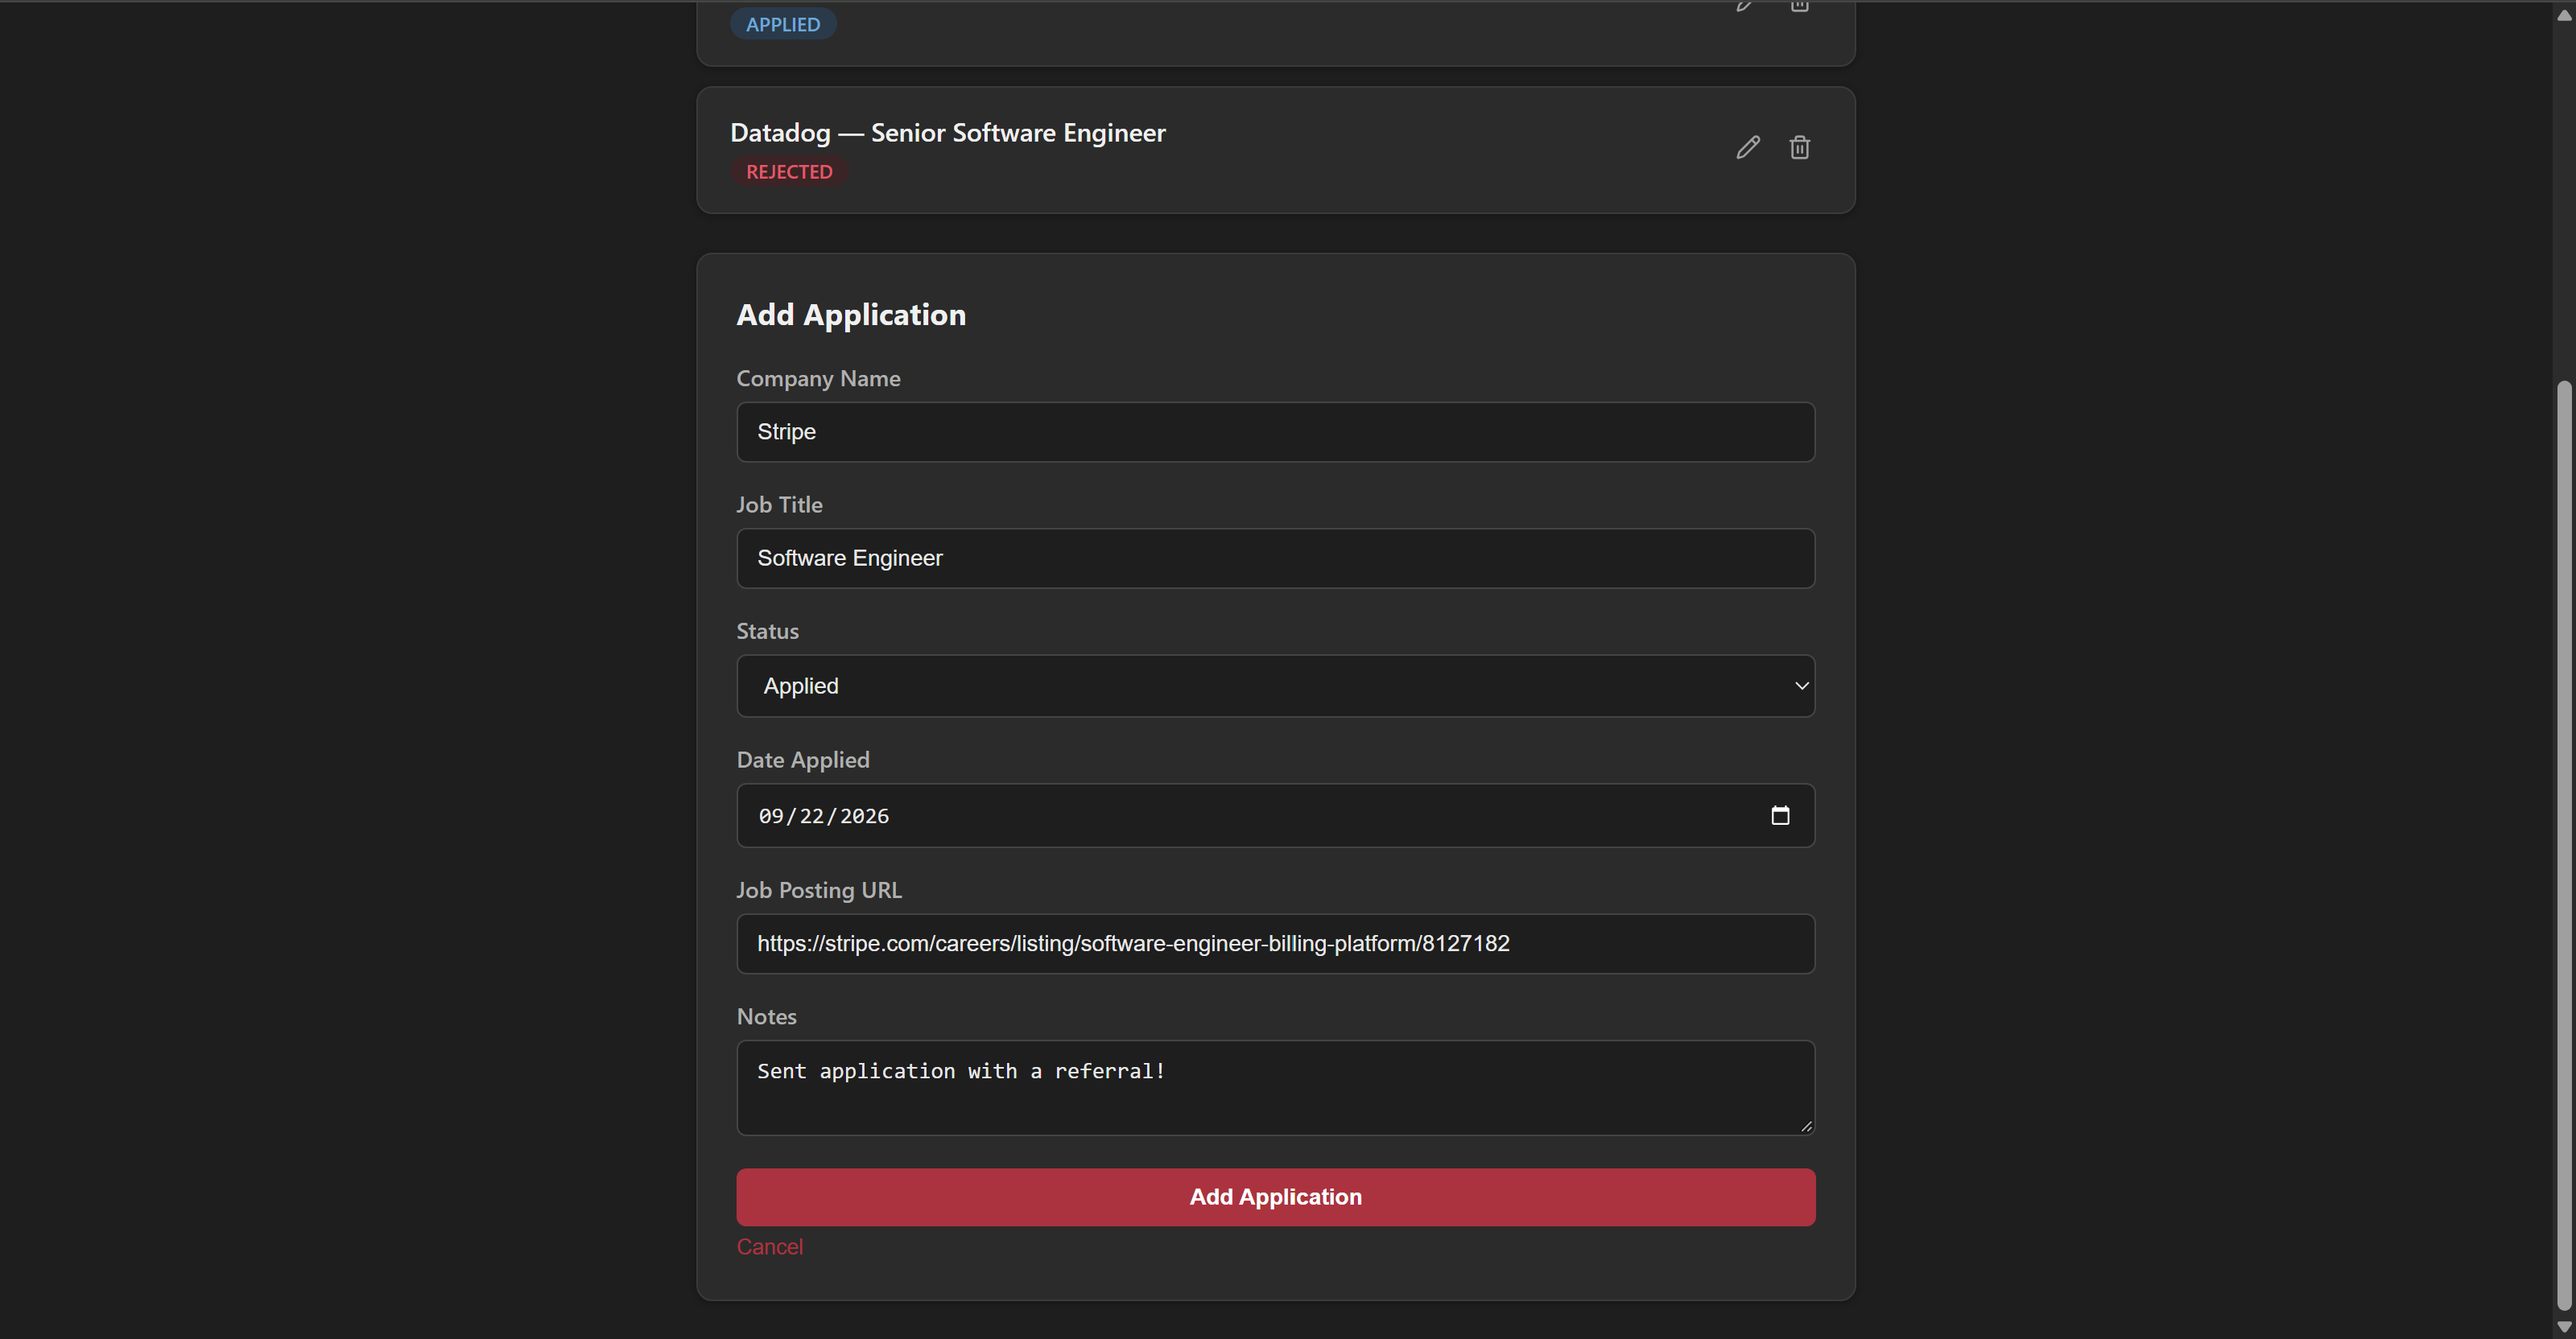
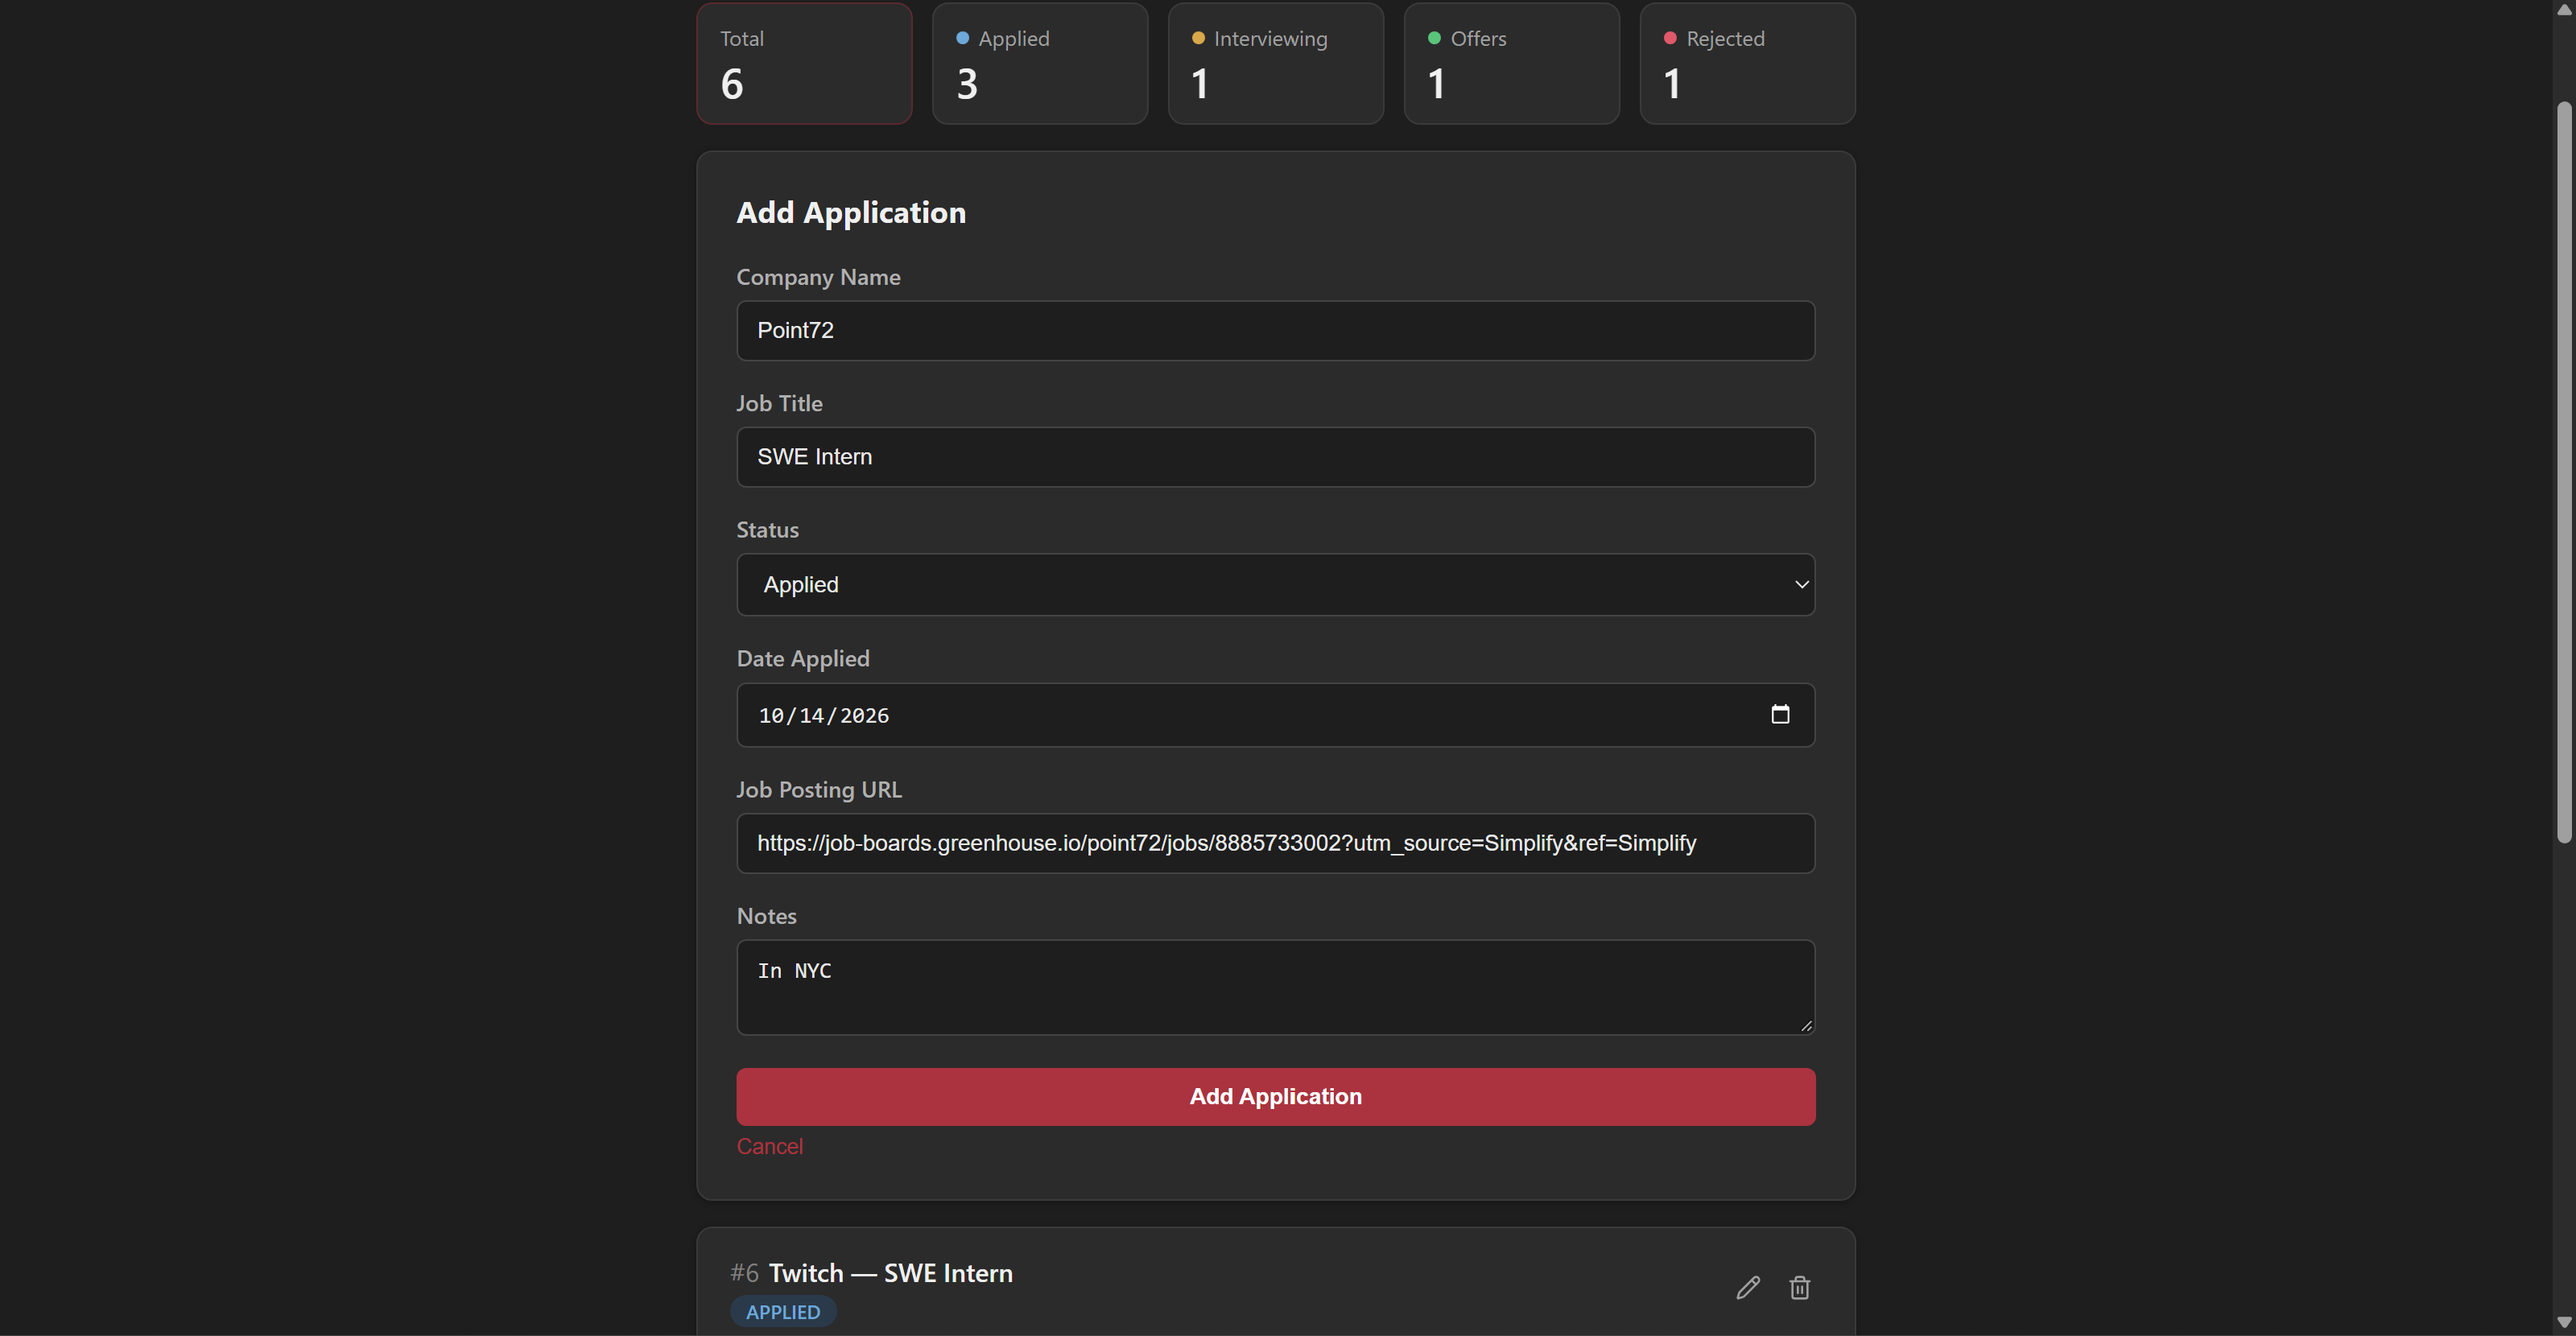
Update README screenshots and features for v2

diff --git a/README.md b/README.md
@@ -9,8 +9,13 @@ A full-stack job application tracker — register, log in, and manage your job s
 ## Screenshots
 
 <p align="center">
-  <img src="docs/screenshots/dashboard.png" alt="HirePoint dashboard" width="800"><br>
-  <em>Dashboard — track every application's status at a glance</em>
+  <img src="docs/screenshots/landing.png" alt="HirePoint landing page" width="800"><br>
+  <em>Landing page — what HirePoint does, with a preview of the dashboard</em>
+</p>
+
+<p align="center">
+  <img src="docs/screenshots/dashboard.png" alt="HirePoint dashboard with stats" width="800"><br>
+  <em>Dashboard — stats at a glance, with every application numbered newest first</em>
 </p>
 
 <p align="center">
@@ -21,7 +26,7 @@ A full-stack job application tracker — register, log in, and manage your job s
 
 <p align="center">
   <img src="docs/screenshots/add-application.png" alt="Add application form" width="800"><br>
-  <em>Adding a new application</em>
+  <em>Adding a new application — today's date is filled in automatically</em>
 </p>
 
 ---
@@ -33,6 +38,8 @@ A full-stack job application tracker — register, log in, and manage your job s
 - **Application tracking** — company name, job title, status (Applied / Interviewing / Offer / Rejected), date applied, job posting URL, and notes
 - **Server-side validation** — required fields enforced with Jakarta Bean Validation, in addition to client-side checks
 - **Logging** — structured request/event logging (SLF4J) for auth and application actions
+- **Stats at a glance** — live totals for Applied, Interviewing, Offers, and Rejected, plus each application numbered newest first, all derived from the list so they update instantly
+- **Session handling** — expired logins are detected centrally and send you back to the login page with a clear message
 - **Landing page** — introduces the app to logged-out visitors with a live-styled dashboard preview and a "how it works" walkthrough
 - **Dark UI** — custom charcoal/red theme, color-coded status badges, inline editing, collapsible add-application form
 
